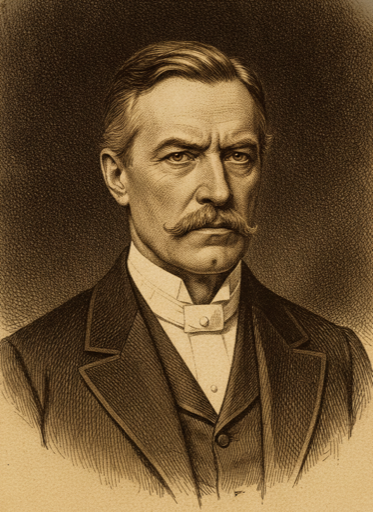
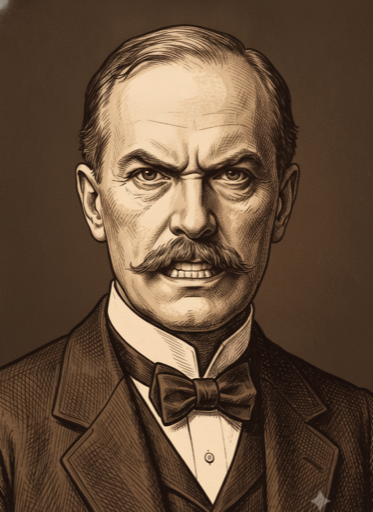
Fix reaction-portrait consistency drift found in #531 audit
Full-resolution audit of all 37 promoted reaction sets against each
member's own baseline (border, outfit, tone, crop — not just per-image
quality) found two failure patterns prior batches' review missed:
wholesale drift on Crowley/Waite/Blavatsky, and a narrower
border/crop/pose drift limited to several members' `thinking` image
(plus one tone-only drift on Böhme). Root cause: prior prompts anchored
likeness/attire/expression via the reference image but never said
anything about border, crop, or camera distance.

Regenerated and promoted 13 images with an explicit consistency
instruction layered onto the existing reference-anchored
expression-override prompt (scripts/fix-531-reaction-drift.js). Added
border/frame and camera-distance/crop rules to STYLE_GUIDE.md's
baseline register so future batches state this explicitly.

Teresa's baseline-vs-reactions style gap and the roster-wide
bordered-vs-borderless split are documented in STYLE_GUIDE.md as
deliberate follow-ups, not fixed here.

diff --git a/scripts/fix-531-reaction-drift.js b/scripts/fix-531-reaction-drift.js
@@ -1,0 +1,153 @@
+'use strict';
+
+// #531 — targeted regeneration for reaction portraits found, on a full
+// audit of all 37 reaction sets against their own baseline, to have drifted
+// in outfit, border/frame, background tone, or camera distance — not just
+// expression. Filed after Rachel caught Crowley's -thinking/-angry reading
+// as "a completely different person" live; the audit (see PR description)
+// found two more fully-drifted sets (Waite, Blavatsky) and a narrower
+// recurring pattern where a member's -thinking image alone drops the
+// reference's border and zooms to a tighter hand-to-chin crop the other
+// three reactions don't share (frieda-harris, dion-fortune, moina-mathers,
+// jung), plus one tone-only drift (bohme -thinking).
+//
+// This reuses src/portrait-generation.js's EXPRESSION_OVERRIDE_META and the
+// concrete physically-described REACTIONS wording batch 2/3 converged on,
+// but adds an explicit CONSISTENCY_SUFFIX the prior batches never needed to
+// state outright — match the reference's border treatment, crop distance,
+// and framing, not just its likeness/attire. That gap is exactly what let
+// these sets drift while each individual generation still "looked fine" in
+// isolation.
+//
+// Storage/naming: public/portraits/candidates/<id>-<reaction>.png, same as
+// every prior batch. Per STYLE_GUIDE.md's human-validation gate, this
+// script does NOT promote — it only writes candidates for review. Run
+// scripts/promote-portrait.js on whichever candidates Rachel approves.
+//
+// Usage: node scripts/fix-531-reaction-drift.js
+
+require('dotenv').config();
+const fs = require('fs');
+const path = require('path');
+const { generatePortraitImage } = require('../src/portrait-generation');
+
+const ROOT = path.join(__dirname, '..');
+const PORTRAITS_DIR = path.join(ROOT, 'public', 'portraits');
+const CANDIDATES_DIR = path.join(PORTRAITS_DIR, 'candidates');
+
+const EXPRESSION_OVERRIDE_META =
+  "This is a photo-editing task. The attached reference photo shows this person with a neutral, resting expression. Match the reference image's exact facial structure, likeness, skin tone, headwear, and attire — do not alter identity, age, or ethnicity. You must NOT reuse or approximate the reference photo's facial expression under any circumstances — that neutral expression is the one thing you must change. Use the reference ONLY to match likeness/attire/background, including eye color and darkness exactly as in the reference (do not lighten, recolor, or add any glow to the eyes). His or her expression in your output must be a completely different, strongly and unmistakably expressed emotion, described below. If your output's face looks close to the reference's expression, you have failed the task.";
+
+// New for #531 — the prior batches' prompts anchored likeness/attire/expression
+// but never said anything about border, crop, or camera distance, and multiple
+// members' sets drifted on exactly those axes despite passing per-image review.
+const CONSISTENCY_SUFFIX =
+  "Match the reference image's border treatment exactly: if the reference has a plain white or cream border framing the portrait, reproduce that same border style and thickness; if the reference is borderless (the image runs edge-to-edge with no frame), your output must be borderless too — do not add a border that is not in the reference, and do not drop one that is. Match the reference's exact camera distance and crop — same head-and-shoulders framing, same amount of shoulder/torso visible, same zoom level. Do not zoom in closer, do not change the pose or add hand gestures, props, or framing not present in the reference. Keep the exact same outfit, garment colors, and background color/tone as the reference — do not substitute a different tie, collar, or garment style.";
+
+const STYLE_SUFFIX =
+  "Visible linework and texture (engraving/ink-wash register), not photorealistic or cartoon/flat-vector. Limited warm sepia/candlelit palette, consistent across a set, matching the reference image's exact tone. Background matching the reference image's background exactly — flat and evenly lit, no vignette or gradient, matte and uniform edge to edge. Portrait-oriented, thumbnail resolution.";
+
+// Subject clauses copied verbatim from the batch that originally generated
+// each member's baseline (pilot / batch2 / batch3), so the regenerated
+// reaction reads as the same established portrait.
+const MEMBER_SUBJECTS = {
+  crowley:
+    "Warm, etching-adjacent portrait of Aleister Crowley, English ceremonial magician, Edwardian era — head-and-shoulders, shaved head, formal Edwardian dress or ceremonial magician's robe. Aim for a recognizable likeness consistent with surviving photographs.",
+  waite:
+    'Warm, etching-adjacent portrait of Arthur Edward Waite, English occult scholar, late-Victorian/Edwardian era — head-and-shoulders, formal dark suit and high collar, mustache, scholarly bearing. Aim for a recognizable likeness consistent with surviving photographs.',
+  blavatsky:
+    'Warm, etching-adjacent portrait of Helena Petrovna Blavatsky, Russian-born Theosophist, Victorian era — head-and-shoulders, imposing older woman, elaborate Victorian dress, piercing direct gaze, rings visible if hands are in frame. Aim for a recognizable likeness consistent with surviving photographs.',
+  'frieda-harris':
+    'Warm, etching-adjacent portrait of Lady Frieda Harris, English artist, 1930s–40s — head-and-shoulders, refined older Englishwoman, elegant period dress, poised confident bearing.',
+  'dion-fortune':
+    'Warm, etching-adjacent portrait of Dion Fortune (Violet Mary Firth), English occultist, early 20th century — head-and-shoulders, formal 1920s–30s dress.',
+  'moina-mathers':
+    'Warm, etching-adjacent portrait of Moina Mathers, Golden Dawn co-leader and artist, Edwardian era — head-and-shoulders, formal Edwardian dress or Golden Dawn ceremonial regalia.',
+  jung: 'Warm, etching-adjacent portrait of Carl Gustav Jung, Swiss psychiatrist, mid-20th century — head-and-shoulders, glasses, formal suit, pipe optional.',
+  bohme:
+    "Warm, etching-adjacent portrait of Jakob Böhme, German shoemaker and mystic, early 17th century — head-and-shoulders, plain burgher/tradesman's dress (not scholar's robes or clerical dress — he had no Latin and no theological training), a cobbler's awl or scrap of leatherwork visible at the frame's edge as a concrete trade marker. Surviving 17th-century engraved frontispiece portraits exist from posthumous editions of his work; use them as a loose likeness anchor while keeping the set's etching register, not a direct reproduction.",
+};
+
+const REACTIONS = {
+  happy:
+    'Expression: a broad, unmistakable open-mouthed smile, teeth showing, cheeks pushed up high, eyes crinkled almost shut with genuine delighted laughter — an exuberant, joyful face, the opposite of a neutral or reserved expression.',
+  thinking:
+    'Expression: strongly inward and distracted — eyes unfocused and cast far into the middle distance (not toward the viewer at all), one eyebrow raised or brow deeply furrowed, mouth slightly open or twisted to one side as if murmuring — an obviously distracted, not-present face, the opposite of direct engagement with the viewer.',
+  angry:
+    'Expression: a hard, aggressive scowl — eyebrows sharply lowered and pulled together into a deep vertical crease, eyes narrowed to slits in a hard glare, mouth pulled into a tight snarl or bared teeth, jaw thrust forward — an unmistakably hostile, confrontational face.',
+};
+
+// Member -> reactions confirmed drifted by the #531 full-resolution audit.
+const FIXES = {
+  crowley: ['thinking', 'angry'],
+  waite: ['happy', 'thinking', 'angry'],
+  blavatsky: ['happy', 'thinking', 'angry'],
+  'frieda-harris': ['thinking'],
+  'dion-fortune': ['thinking'],
+  'moina-mathers': ['thinking'],
+  jung: ['thinking'],
+  bohme: ['thinking'],
+};
+
+function buildPrompt(memberId, reaction) {
+  return `${EXPRESSION_OVERRIDE_META} ${MEMBER_SUBJECTS[memberId]} ${REACTIONS[reaction]} ${CONSISTENCY_SUFFIX} ${STYLE_SUFFIX}`;
+}
+
+async function main() {
+  const apiKey = process.env.GEMINI_API_KEY;
+  if (!apiKey) {
+    console.error('GEMINI_API_KEY not set — cannot generate real portrait candidates.');
+    process.exit(1);
+  }
+
+  fs.mkdirSync(CANDIDATES_DIR, { recursive: true });
+
+  const results = [];
+  for (const [memberId, reactions] of Object.entries(FIXES)) {
+    const baselinePath = path.join(PORTRAITS_DIR, `${memberId}.png`);
+    if (!fs.existsSync(baselinePath)) {
+      console.log(`SKIPPING ${memberId} — no baseline portrait found at public/portraits/${memberId}.png`);
+      results.push({ id: memberId, ok: false, error: 'no baseline portrait' });
+      continue;
+    }
+    const referenceImages = [{ mimeType: 'image/png', data: fs.readFileSync(baselinePath) }];
+
+    for (const reaction of reactions) {
+      const id = `${memberId}-${reaction}`;
+      const prompt = buildPrompt(memberId, reaction);
+      process.stdout.write(`Generating ${id}... `);
+      try {
+        const start = Date.now();
+        const imageBuffer = await generatePortraitImage({ apiKey, prompt, referenceImages });
+        const outPath = path.join(CANDIDATES_DIR, `${id}.png`);
+        fs.writeFileSync(outPath, imageBuffer);
+        const ms = Date.now() - start;
+        console.log(`done (${imageBuffer.length} bytes, ${ms}ms) -> public/portraits/candidates/${id}.png`);
+        results.push({ id, ok: true });
+      } catch (err) {
+        console.log(`FAILED: ${err.message}`);
+        results.push({ id, ok: false, error: err.message });
+      }
+    }
+  }
+
+  console.log('\n=== SUMMARY ===');
+  const okCount = results.filter(r => r.ok).length;
+  console.log(`${okCount}/${results.length} candidates generated.`);
+  for (const r of results.filter(r => !r.ok)) {
+    console.log(`  FAILED: ${r.id} — ${r.error}`);
+  }
+  console.log(
+    '\nNext: review each candidate in public/portraits/candidates/ against the baseline portrait and STYLE_GUIDE.md, then promote the good ones with:\n' +
+      Object.entries(FIXES)
+        .flatMap(([m, reactions]) => reactions.map(r => `  node scripts/promote-portrait.js ${m}-${r}`))
+        .join('\n')
+  );
+
+  process.exit(results.every(r => r.ok) ? 0 : 1);
+}
+
+main().catch(err => {
+  console.error('Script error:', err);
+  process.exit(1);
+});

diff --git a/public/portraits/STYLE_GUIDE.md b/public/portraits/STYLE_GUIDE.md
@@ -12,6 +12,8 @@ AI-generated, proof-of-concept register for this stage of the project. Not commi
 - **Palette:** limited, warm-toned (sepia/candlelit register), consistent across the set — no member should read as lit or colored differently from the rest of the roster.
 - **Composition:** head-and-shoulders, period-appropriate dress, plain/dark background (no scene elements — scene context is the 3D salon's job, not the portrait's, per #26/#28).
 - **Line quality:** visible linework/texture (etching, engraving, ink-wash adjacent) rather than smooth airbrushed rendering.
+- **Border/frame:** match whatever the member's own baseline established — a plain white/cream border, or fully borderless (image runs edge-to-edge) — consistently across the baseline and all three reactions. This guide doesn't mandate one or the other roster-wide; the existing set is split roughly evenly between bordered and borderless members. The requirement is internal consistency per member, not a specific choice (added after [#531](https://github.com/msdixon/secret-cabinet/issues/531) found several members' reaction sets silently drifting border treatment against their own baseline).
+- **Camera distance/crop:** same head-and-shoulders framing and zoom level as the member's baseline across all three reactions — a reaction should never crop tighter/looser, or introduce a pose/hand gesture the baseline doesn't have (added after [#531](https://github.com/msdixon/secret-cabinet/issues/531), same finding as above).
 
 ## Known-vs-unknown likeness
 
@@ -31,6 +33,7 @@ AI-generated, proof-of-concept register for this stage of the project. Not commi
 
 ## Changelog
 
+- 2026-09-02 — [#531](https://github.com/msdixon/secret-cabinet/issues/531): full-resolution audit of all 37 promoted reaction sets (Bamba excluded, routed to the generic silhouette) against each member's own baseline — not just per-image quality — surfaced two failure patterns the prior batches' review process didn't catch: three members' sets had drifted wholesale (Crowley `thinking`/`angry`, Waite's full set, Blavatsky's full set), reading as a different outfit, tone, or even a different person; and a narrower pattern where a member's `thinking` image alone dropped the baseline's border and tightened to a hand-to-chin crop the member's other three images don't share (Frieda Harris, Dion Fortune, Moina Mathers, Jung), plus one tone-only drift (Böhme `thinking`, warmer/golden vs. the set's cooler sepia). Root cause: every prior batch's prompt anchored likeness/attire/expression via the reference image but never said anything about border, crop, or camera distance, so a set could drift on exactly those axes while each image still "looked fine" reviewed in isolation. Fixed by adding an explicit consistency instruction (`scripts/fix-531-reaction-drift.js`) covering border/frame treatment, camera distance/crop, pose, and outfit/background match, layered onto the existing reference-anchored expression-override prompt; regenerated and promoted 13 images, each confirmed against its baseline via full-resolution side-by-side comparison (the thumbnail-grid method used in earlier batches wasn't reliable enough to have caught this in the first place). Added the border/frame and camera-distance/crop rules above to the baseline register so future batches state this explicitly instead of relying on the reference image alone. Two known gaps deliberately left out of this pass: Teresa of Ávila's baseline reads in a different sub-register (closed-eyes, borderless, near-black background, painterly) than her three reactions (open-eyes, bordered, warm background, graphic linework) — the reactions agree with each other but not with the baseline; lower priority and higher-risk to fix here, since a fix would mean regenerating a canonical baseline used elsewhere in the app, not just the reactions. And the roster-wide bordered-vs-borderless split itself (each member passes the new per-member rule above; the split is between members, not within one) is left as-is rather than picked one way retroactively.
 - 2026-08-31 — [#474](https://github.com/msdixon/secret-cabinet/issues/474): one generic, non-likeness image generated against this guide's baseline register — `public/portraits/generic-silhouette.png`, a hooded figure with no identifiable facial features, plain dark background, same warm sepia/etching tone as the rest of the roster (`scripts/generate-generic-silhouette.js`). Not a member portrait: no roster entry, not tied to any `<id>`. Used by `applyReactionTexture`/`getPortraitTexture` (`public/js/scene/scene.js`) in three fallback cases: a member with no baseline portrait at all (previously hid the seat entirely — now shows this instead, keeping the seat visibly occupied), a member's reaction pair that 404s (unchanged: still falls back to the member's own baseline portrait, since a real likeness reads better than a generic one when we have it), and Amadou Bamba's reaction set specifically, which is now routed straight to this image without ever requesting `bamba-<reaction>.png` — his reaction set was deliberately held back at generation time (see the 2026-08-29 entry below) rather than personified, and his baseline `bamba.png` is unaffected. Live-verified in the running room: an unseated/unknown member id now shows the silhouette instead of vanishing, and setting Bamba's reaction shows the silhouette while his baseline (`reaction: 'none'`) still shows his real portrait, with no network request for `bamba-happy.png` ever made. **Revised same day, before merge:** the first-pass image described the hood's interior as "soft shadow" — gemini-2.5-flash-image rendered that as a dimensionally-shaded, faintly-featured face in darkness rather than an absence of one, which read as unsettling/uncanny rather than deliberately unspecified (Rachel: "sppoky... can we just make the head a blackened out shadow rather than something indicating a face is in it?"). Fixed by rewriting the prompt to describe a completely flat, solid black void with explicitly no shading/gradient/implied facial structure and no linework inside it, distinct from the textured hood/robe around it — regenerated once, confirmed on review to no longer read as a face-in-shadow, and promoted over the original.
 - 2026-08-30 — [#479](https://github.com/msdixon/secret-cabinet/issues/479) follow-up: expanded the single Dorian Gray decor image into 8 variants (`public/portraits/decor/dorian-gray-01.png`..`-08.png`) tracing the novel's central conceit — the same face aging and corrupting from unmarked youth (01) to ruinous decay (08) — generated with `-01` as a reference image to hold identity/attire/background constant across the set (same reference-anchoring approach as the #450 reaction portraits below). One is now picked at random client-side each time the 3D scene builds (`public/js/scene/scene.js`), not persisted or tied to any room state. Still non-roster decor, same as the original entry below.
 - 2026-08-30 — [#479](https://github.com/msdixon/secret-cabinet/issues/479): one non-roster image generated against this guide's baseline register — `public/portraits/decor/dorian-gray.png`, a generic static Dorian Gray portrait for the 3D room's previously-empty wall frame near the fireplace. Not a member portrait: no roster entry, no character file, not part of the #450 reaction-portrait system, and deliberately placed outside the member-id-keyed top-level `portraits/` namespace so it's never mistaken for one. Noted here only because it borrowed this guide's register (warm sepia, etching-adjacent, period dress, plain dark background) via the same `src/portrait-generation.js` pipeline.

diff --git a/docs/status/fragments/531-reaction-drift-fix.md b/docs/status/fragments/531-reaction-drift-fix.md
@@ -1,0 +1,1 @@
+[#531](https://github.com/msdixon/secret-cabinet/issues/531): audited all 37 promoted reaction sets against each member's own baseline (border, outfit, tone, crop — not just per-image quality) and regenerated 13 drifted images across 8 members (Crowley, Waite, Blavatsky full or partial sets; Frieda Harris, Dion Fortune, Moina Mathers, Jung, Böhme `thinking`-only). Added explicit border/frame and camera-distance/crop rules to `STYLE_GUIDE.md`'s baseline register so future batches state this instead of relying on the reference image alone. Teresa's baseline-vs-reactions style gap and the roster-wide bordered-vs-borderless split are documented as deliberate follow-ups, not fixed here.
